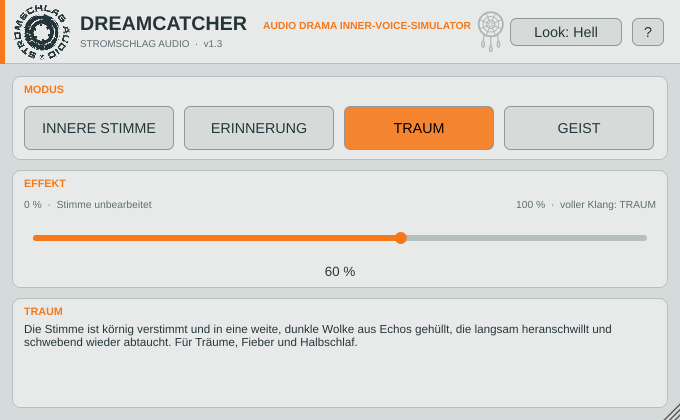
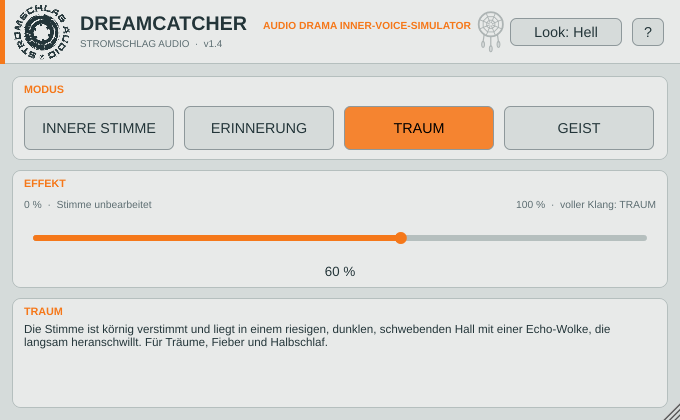
v1.4: Echter Hall in allen Modi (nach Airwindows Galactic)
- Je Modus ein eigener Raum: winzig (Innere Stimme), kleines dumpfes Zimmer (Erinnerung),
  riesige dunkle Halle (Traum, ca. 5,5 s), Nachhall hinter der Stimme (Geist)
- Beim Moduswechsel klingt der alte Raum aus, der neue blendet ein (kein Knacken)
- Pegel neu abgeglichen, Tail 6 s, Reverse-Hall rechnet halb so viel
- Beschreibungstext wird nicht mehr gestaucht; Hilfe, README, Info-Seite, Credits aktualisiert

Claude-Session: https://claude.ai/code/session_01N8U6GAcgjakis5mRQaEKjq

Changed region(s): [[0.0309, 0.7738, 0.8956, 0.8357]]

diff --git a/docs/index.html b/docs/index.html
@@ -61,14 +61,14 @@
   bis zum vollen Effekt, auch über die Zeit per Automation.</p>
 
   <a class="btn" id="dl" href="https://github.com/StromschlagProductions/Dreamcatcher-vst/releases/latest">⬇ Download (Windows, VST3)</a>
-  <div class="meta" id="ver">Aktuelle Version: <span id="vnum">1.3</span> · Installation: ZIP entpacken, den ganzen Ordner <code>Dreamcatcher.vst3</code> nach <code>C:\Program Files\Common Files\VST3</code> kopieren.</div>
+  <div class="meta" id="ver">Aktuelle Version: <span id="vnum">1.4</span> · Installation: ZIP entpacken, den ganzen Ordner <code>Dreamcatcher.vst3</code> nach <code>C:\Program Files\Common Files\VST3</code> kopieren.</div>
 
   <h2>Was es kann</h2>
   <ul>
-    <li><strong>Innere Stimme:</strong> nah, im Kopf, schmal, mit einem kurzen Hauch Echo und weicheren Höhen.</li>
-    <li><strong>Erinnerung / Rückblende:</strong> die Stimme stottert, sinkt ab und klingt dünn und dumpf; nach einem Pre-Delay schwappen Echos von links nach rechts heran und schwellen an (wop, wop).</li>
-    <li><strong>Traum:</strong> körnig verstimmt, in einer weiten, dunklen Echo-Wolke, die langsam anschwillt und schwebend abtaucht.</li>
-    <li><strong>Geist:</strong> echter Reverse-Hall: Vor jedem Wort schwillt ein Geisterhall an, dann kommt die Stimme. Dafür meldet das Plugin in diesem Modus rund 0,6 s Latenz an die DAW, die sie ausgleicht. Am besten auf einer eigenen Spur oder Instanz.</li>
+    <li><strong>Innere Stimme:</strong> nah, im Kopf, schmal, in einem winzigen, engen Raum mit einem Hauch Echo und weicheren Höhen.</li>
+    <li><strong>Erinnerung / Rückblende:</strong> die Stimme stottert, sinkt ab und klingt dünn und dumpf in einem kleinen, alten Zimmer; nach einem Pre-Delay schwappen Echos von links nach rechts heran und schwellen an (wop, wop).</li>
+    <li><strong>Traum:</strong> körnig verstimmt, in einem riesigen, dunklen, schwebenden Hall mit einer Echo-Wolke, die langsam anschwillt.</li>
+    <li><strong>Geist:</strong> echter Reverse-Hall: Vor jedem Wort schwillt ein Geisterhall an, dann kommt die Stimme und hallt nach. Dafür meldet das Plugin in diesem Modus rund 0,6 s Latenz an die DAW, die sie ausgleicht. Am besten auf einer eigenen Spur oder Instanz.</li>
     <li><strong>Ein Fader von 0 bis 100 %:</strong> 0 % ist die Stimme unbearbeitet, 100 % der volle Klang des Modus. Per Automation lässt sich der Effekt einblenden oder zurückholen, etwa wenn eine alte Stimme aus einer Überblendung kommt.</li>
     <li><strong>Auch auf einem Bus:</strong> Stimme und Geräusche einer Traum- oder Erinnerungsszene bekommen gemeinsam dieselbe Behandlung und klingen wie aus einer Welt.</li>
     <li><strong>Fest abgestimmt:</strong> kein Ausgangsregler, keine eigenen Geräusche. Das Plugin verändert nur den Klang der Stimme; Latenz gibt es nur im Modus Geist.</li>
@@ -87,7 +87,7 @@
 
   <footer>
     DREAMCATCHER · Stromschlag Audio · Lars Eickstädt<br>
-    Gebaut mit <a href="https://juce.com">JUCE</a>. Klangbausteine nach Airwindows SweetWide, StereoEnsemble, GlitchShifter und PitchNasty (Chris Johnson, MIT-Lizenz).
+    Gebaut mit <a href="https://juce.com">JUCE</a>. Klangbausteine nach Airwindows SweetWide, StereoEnsemble, GlitchShifter, PitchNasty und Galactic (Chris Johnson, MIT-Lizenz).
   </footer>
 
 </main>

diff --git a/Source/DreamcatcherDSP.h b/Source/DreamcatcherDSP.h
@@ -52,13 +52,13 @@ struct Voicing
 // Reihenfolge wie enum Mode
 static const Voicing kVoicing[kNumModes] = {
     // innere Stimme: nah, im Kopf, leicht verbreitert, nur ein kurzes leises Echo dahinter, wenig dunkler
-    { 0.00, 0.00, 0.12, 0.25, 0.35, 0.22, 140.0, 7500.0, 1.25,   0.18,  18.0,  90.0, 0.0, 0.3, 3500.0,   0.00, 0.00 },
+    { 0.00, 0.00, 0.12, 0.25, 0.35, 0.22, 140.0, 7500.0, 1.40,   0.18,  18.0,  90.0, 0.0, 0.3, 3500.0,   0.00, 0.00 },
     // Erinnerung: stark zerfallende, dumpfe Stimme, dazu Pre-Delay und Echos, die schwappend zwischen links und rechts anschwellen
-    { 0.85, 0.00, 0.20, 0.20, 0.55, 0.30, 260.0, 3800.0, 2.00,   0.55, 120.0, 240.0, 0.7, 1.0, 2600.0,   0.00, 0.00 },
+    { 0.85, 0.00, 0.20, 0.20, 0.55, 0.30, 260.0, 3800.0, 1.95,   0.55, 120.0, 240.0, 0.7, 1.0, 2600.0,   0.00, 0.00 },
     // Traum: koernig verstimmt, weite Wolke, dazu langsam anschwellende Echos
-    { 0.00, 0.75, 0.20, 0.30, 0.90, 0.60, 160.0, 4200.0, 1.80,   0.40,  60.0, 330.0, 1.0, 0.8, 3000.0,   0.00, 0.00 },
+    { 0.00, 0.75, 0.20, 0.30, 0.90, 0.60, 160.0, 4200.0, 1.50,   0.40,  60.0, 330.0, 1.0, 0.8, 3000.0,   0.00, 0.00 },
     // Geist: der Hall laeuft rueckwaerts und schwillt vor der Stimme an (Latenz, siehe kGhostSeconds)
-    { 0.00, 0.00, 0.10, 0.20, 0.25, 0.15, 150.0, 6000.0, 1.00,   0.00,   0.0,   0.0, 0.0, 0.0, 3000.0,   0.85, 0.95 },
+    { 0.00, 0.00, 0.10, 0.20, 0.25, 0.15, 150.0, 6000.0, 0.82,   0.00,   0.0,   0.0, 0.0, 0.0, 3000.0,   0.85, 0.95 },
 };
 
 // Tap-Verlauf der Schwapp-Echos (8 Echos): abfallend bzw. anschwellend, Mischung ueber echoSwell
@@ -77,6 +77,13 @@ constexpr double kGlitchFeedback = 0.10;    // Rueckkopplung 0..0.67
 constexpr double kNastyBendSemis = -0.45;   // Verstimmung in Halbtoenen
 constexpr double kNastyGrindSemis = -20.0;  // Koernung: Halbtoene unter dem mittleren C (tiefer = groeber)
 constexpr double kNastyFeedback = 0.25;     // Rueckkopplung 0..1
+// Hall je Modus (Airwindows Galactic): Pegel, Ausklang (Replace: hoch = kurz), Helligkeit, Schwebung, Raumgroesse
+struct Room { double level, replace, bright, detune, size; };
+static const Room kRoom[kNumModes] = {
+    { 0.35, 0.88, 0.55, 0.00, 0.06 },   // Innere Stimme: winzig, eng, nur ein Hauch Raum im Kopf
+    { 1.45, 0.62, 0.28, 0.15, 0.30 },   // Erinnerung: kleines, dumpfes, altes Zimmer
+    { 1.57, 0.72, 0.32, 0.70, 1.00 },   // Traum: riesig, dunkel, schwebend
+    { 0.96, 0.65, 0.40, 0.35, 0.55 } }; // Geist: Nachhall hinter der Stimme
 constexpr double kSmoothSeconds = 0.060;    // Zeit, in der Moduswechsel ueberblendet werden
 
 // ======================================================================================================
@@ -383,6 +390,122 @@ struct Biquad
 };
 
 // ======================================================================================================
+//  Galactic (Airwindows, Chris Johnson, MIT): Hall aus drei 4x4-Rueckkopplungsnetzen mit schwebendem Vorlauf
+//  Portiert ohne Dither. Die Raumgroesse wird beim prepare() fest eingestellt (jeder Modus hat sein eigenes Exemplar).
+// ======================================================================================================
+class Galactic
+{
+public:
+    void prepare (double sampleRate, const Room& room)
+    {
+        const double overall = sampleRate / 44100.0;
+        cycleEnd = std::max (1, std::min (4, (int) std::floor (overall)));
+        regen = 0.0625 + (1.0 - room.replace) * 0.0625;
+        attenuate = (1.0 - regen / 0.125) * 1.333;
+        lowpass = std::pow (1.00001 - (1.0 - room.bright), 2.0) / std::sqrt (overall);
+        drift = std::pow (room.detune, 3.0) * 0.001;
+        const double size = room.size * 1.77 + 0.1;
+        static const double base[12] = { 3407, 1823, 859, 331, 4801, 2909, 1153, 461, 7607, 4217, 2269, 1597 };
+        for (int k = 0; k < 12; ++k)
+        {
+            d[k] = std::max (1, (int) (base[k] * size));
+            for (int c = 0; c < 2; ++c) buf[c][k].assign ((size_t) d[k] + 2, 0.0);
+        }
+        for (int c = 0; c < 2; ++c) bufM[c].assign ((size_t) kDelayM + 2, 0.0);
+        reset();
+    }
+    void reset()
+    {
+        for (int c = 0; c < 2; ++c)
+        {
+            for (auto& b : buf[c]) std::fill (b.begin(), b.end(), 0.0);
+            std::fill (bufM[c].begin(), bufM[c].end(), 0.0);
+            for (auto& f : fb[c]) f = 0.0;
+            for (auto& r : lastRef[c]) r = 0.0;
+            iirA[c] = iirB[c] = 0.0;
+        }
+        for (auto& n : count) n = 1;
+        countM = 1; cycle = 0; vibM = 3.0; oldfpd = 0.5;
+    }
+    // Eingang l/r, Rueckgabe: nur der Hall (wet)
+    void process (double inL, double inR, double& outL, double& outR)
+    {
+        vibM += oldfpd * drift;
+        if (vibM > 6.283185307179586) { vibM = 0.0; rng ^= rng << 13; rng ^= rng >> 17; rng ^= rng << 5; oldfpd = 0.4294967295 + rng * 0.0000000000618; }
+
+        bufM[0][(size_t) countM] = inL * attenuate;
+        bufM[1][(size_t) countM] = inR * attenuate;
+        if (++countM > kDelayM) countM = 0;
+        double x[2];
+        for (int c = 0; c < 2; ++c)
+        {
+            const double off = (std::sin (vibM + (c ? 1.5707963267948966 : 0.0)) + 1.0) * 127.0;
+            const int w = countM + (int) off;
+            const double frac = off - std::floor (off);
+            const int i0 = w > kDelayM ? w - (kDelayM + 1) : w;
+            const int i1 = (w + 1) > kDelayM ? w + 1 - (kDelayM + 1) : w + 1;
+            x[c] = bufM[c][(size_t) i0] * (1.0 - frac) + bufM[c][(size_t) i1] * frac;
+            iirA[c] = iirA[c] * (1.0 - lowpass) + x[c] * lowpass;
+            x[c] = iirA[c];
+        }
+
+        if (++cycle == cycleEnd)
+        {
+            double o[2][4];
+            // erster Block: Eingang + ueberkreuzte Rueckkopplung
+            for (int c = 0; c < 2; ++c)
+                for (int k = 0; k < 4; ++k)
+                    buf[c][k][(size_t) count[k]] = x[c] + fb[1 - c][k] * regen;
+            for (int k = 0; k < 4; ++k) advance (k);
+            for (int c = 0; c < 2; ++c) for (int k = 0; k < 4; ++k) o[c][k] = tap (c, k);
+            // zweiter und dritter Block
+            for (int stage = 1; stage <= 2; ++stage)
+            {
+                const int b0 = stage * 4;
+                for (int c = 0; c < 2; ++c)
+                    for (int k = 0; k < 4; ++k)
+                        buf[c][b0 + k][(size_t) count[b0 + k]] = householder (o[c], k);
+                for (int k = 0; k < 4; ++k) advance (b0 + k);
+                for (int c = 0; c < 2; ++c) for (int k = 0; k < 4; ++k) o[c][k] = tap (c, b0 + k);
+            }
+            for (int c = 0; c < 2; ++c)
+            {
+                for (int k = 0; k < 4; ++k) fb[c][k] = householder (o[c], k);
+                const double y = (o[c][0] + o[c][1] + o[c][2] + o[c][3]) / 8.0;
+                double* r = lastRef[c];
+                if (cycleEnd == 4) { r[0] = r[4]; r[2] = (r[0] + y) / 2; r[1] = (r[0] + r[2]) / 2; r[3] = (r[2] + y) / 2; r[4] = y; }
+                else if (cycleEnd == 3) { r[0] = r[3]; r[2] = (r[0] + r[0] + y) / 3; r[1] = (r[0] + y + y) / 3; r[3] = y; }
+                else if (cycleEnd == 2) { r[0] = r[2]; r[1] = (r[0] + y) / 2; r[2] = y; }
+                else r[0] = y;
+            }
+            cycle = 0;
+        }
+        for (int c = 0; c < 2; ++c)
+        {
+            iirB[c] = iirB[c] * (1.0 - lowpass) + lastRef[c][cycle] * lowpass;
+            x[c] = iirB[c];
+        }
+        outL = x[0]; outR = x[1];
+    }
+
+private:
+    static constexpr int kDelayM = 256;
+    static double householder (const double* o, int k) { return o[k] - (o[0] + o[1] + o[2] + o[3] - o[k]); }
+    void advance (int k) { if (++count[k] > d[k]) count[k] = 0; }
+    double tap (int c, int k) const
+    {
+        const int n = count[k];
+        return buf[c][k][(size_t) (n > d[k] ? n - d[k] - 1 : n)];
+    }
+
+    std::vector<double> buf[2][12], bufM[2];
+    int d[12] {}, count[12] {}, countM = 1, cycle = 0, cycleEnd = 1;
+    double fb[2][4] {}, lastRef[2][7] {}, iirA[2] {}, iirB[2] {};
+    double regen = 0.09, attenuate = 0.5, lowpass = 0.5, drift = 0.0, vibM = 3.0, oldfpd = 0.5;
+    uint32_t rng = 0x2545F491u;
+};
+
+// ======================================================================================================
 //  Verzoegerungsring (feste Laenge, Rueckgabe = Wert von vor genau n Samples)
 // ======================================================================================================
 struct Ring
@@ -529,12 +652,13 @@ private:
             {
                 const Cx* x = &X[(size_t) ((head - p + parts) % parts) * F];
                 const Cx* h = &H[c][(size_t) p * F];
-                for (int k = 0; k < F; ++k)
+                for (int k = 0; k <= F / 2; ++k)   // reelle Signale: obere Haelfte ist gespiegelt
                 {
                     acc[k].r += x[k].r * h[k].r - x[k].i * h[k].i;
                     acc[k].i += x[k].r * h[k].i + x[k].i * h[k].r;
                 }
             }
+            for (int k = 1; k < F / 2; ++k) acc[F - k] = { acc[k].r, -acc[k].i };
             fft (acc, true);
             for (int i = 0; i < B; ++i) out[c][i] = acc[B + i].r;
         }
@@ -563,6 +687,7 @@ public:
         int n = 1; while ((double) n < 3.4 * sr) n <<= 1;
         echoBuf.assign ((size_t) n, 0.0); echoMask = n - 1; echoPos = 0;
         swell.prepare (sr);
+        for (int m = 0; m < kNumModes; ++m) room[m].prepare (sr, kRoom[m]);
         ghostDelay = swell.latency();
         for (auto* r : { &dlL, &dlR, &dryL, &dryR }) r->init (ghostDelay);
         reset();
@@ -577,6 +702,7 @@ public:
         echoLpL = echoLpR = 0.0;
         for (auto* r : { &dlL, &dlR, &dryL, &dryR }) r->clear();
         ghostRunning = false;
+        for (int m = 0; m < kNumModes; ++m) { room[m].reset(); roomRunning[m] = false; }
     }
     void setMode (int m) { mode = std::max (0, std::min (kNumModes - 1, m)); }
     // Latenz, die dem Host gemeldet werden muss: nur im Modus Geist (Schwell liegt VOR der Stimme)
@@ -678,7 +804,27 @@ public:
                 if (ghostTarget == 0.0 && ghostAmt < 0.0005) ghostRunning = false;
             }
 
-            // 6. Fader: unbearbeitet <-> voller Effekt
+            // 6. Hall: jeder Modus hat seinen eigenen Raum; beim Wechsel klingt der alte aus, der neue blendet ein
+            {
+                double hl = 0.0, hr = 0.0;
+                for (int m = 0; m < kNumModes; ++m)
+                {
+                    const double target = m == mode ? kRoom[m].level : 0.0;
+                    roomLevel[m] += (target - roomLevel[m]) * smooth;
+                    if (! roomRunning[m])
+                    {
+                        if (target == 0.0) continue;
+                        room[m].reset(); roomRunning[m] = true;
+                    }
+                    double wl, wr;
+                    room[m].process (l, r, wl, wr);
+                    hl += wl * roomLevel[m]; hr += wr * roomLevel[m];
+                    if (target == 0.0 && roomLevel[m] < 0.0005) roomRunning[m] = false;
+                }
+                l += hl; r += hr;
+            }
+
+            // 7. Fader: unbearbeitet <-> voller Effekt
             l = safe (outDryL * (1.0 - amount) + l * amount);
             r = safe (outDryR * (1.0 - amount) + r * amount);
             left[i] = (float) l;
@@ -710,6 +856,7 @@ private:
         setEchoMode (std::max (0, std::min (kNumModes - 1, m)));
         echoLevel = kVoicing[echoMode].echoLevel;
         ghostAmt = m == kGhost ? 1.0 : 0.0;
+        for (int k = 0; k < kNumModes; ++k) roomLevel[k] = k == m ? kRoom[k].level : 0.0;
         amount = 1.0;
         started = false;
     }
@@ -729,6 +876,10 @@ private:
     double echoLevel = 0.0, echoCoef = 0.1, echoLpL = 0.0, echoLpR = 0.0;
     // Geist
     SwellConvolver swell;
+    // Hall
+    Galactic room[kNumModes];
+    double roomLevel[kNumModes] {};
+    bool roomRunning[kNumModes] {};
     Ring dlL, dlR, dryL, dryR;
     int ghostDelay = 1;
 };

diff --git a/Source/PluginEditor.cpp b/Source/PluginEditor.cpp
@@ -13,16 +13,16 @@ juce::String modeDescription (int m)
     switch (m)
     {
         case dch::kInner:
-            return u8 ("Die Stimme rückt ins Innere des Kopfes: schmal, nah, ein kurzer Hauch Echo, die Höhen etwas weicher, die Tiefen weg. "
+            return u8 ("Die Stimme rückt ins Innere des Kopfes: schmal, nah, ein winziger, enger Raum und ein Hauch Echo, die Höhen weicher, die Tiefen weg. "
                        "Für Gedanken und die Stimme im Kopf einer Figur.");
         case dch::kMemory:
-            return u8 ("Die Stimme zerfällt: Sie stottert, sinkt ab, klingt dünn und dumpf. Nach einem Pre-Delay schwappen Echos von links nach rechts "
-                       "heran und schwellen an, wop, wop. Für Rückblenden, zum Beispiel die alte Stimme, die aus einer Überblendung kommt.");
+            return u8 ("Die Stimme zerfällt: Sie stottert, sinkt ab, klingt dünn und dumpf wie in einem alten Zimmer. Nach einem Pre-Delay schwappen Echos "
+                       "von links nach rechts heran, wop, wop. Für Rückblenden, zum Beispiel die alte Stimme, die aus einer Überblendung kommt.");
         case dch::kDream:
-            return u8 ("Die Stimme ist körnig verstimmt und in eine weite, dunkle Wolke aus Echos gehüllt, die langsam heranschwillt "
-                       "und schwebend wieder abtaucht. Für Träume, Fieber und Halbschlaf.");
+            return u8 ("Die Stimme ist körnig verstimmt und liegt in einem riesigen, dunklen, schwebenden Hall mit einer Echo-Wolke, "
+                       "die langsam heranschwillt. Für Träume, Fieber und Halbschlaf.");
         default:
-            return u8 ("Reverse-Hall: Vor jedem Wort schwillt ein Geisterhall an, dann kommt die Stimme. Das Plugin meldet dafür rund 0,6 s Latenz, die "
+            return u8 ("Reverse-Hall: Vor jedem Wort schwillt ein Geisterhall an, dann kommt die Stimme und hallt nach. Das Plugin meldet dafür rund 0,6 s Latenz, die "
                        "die DAW ausgleicht. Für Geister und Erscheinungen. Am besten auf einer eigenen Spur oder Plugin-Instanz.");
     }
 }
@@ -60,11 +60,11 @@ static juce::AttributedString buildHelp (juce::Colour text, juce::Colour accent,
           "Der Klang jedes Modus ist fest abgestimmt, es gibt nichts zu basteln. Es gibt nur zwei Regler: den Modus und den Effekt-Fader.");
 
     head ("MODUS");
-    body ("Innere Stimme: Die Stimme rückt ins Innere des Kopfes. Schmal und nah, ein kurzer Hauch Echo, Höhen weicher, Tiefen weg.");
-    body ("Erinnerung: Die Stimme stottert, sinkt ab, klingt dünn und dumpf. Nach einem Pre-Delay schwappen Ping-Pong-Echos von links nach rechts "
+    body ("Innere Stimme: Die Stimme rückt ins Innere des Kopfes. Schmal und nah, ein winziger, enger Raum, ein Hauch Echo, Höhen weicher, Tiefen weg.");
+    body ("Erinnerung: Die Stimme stottert, sinkt ab, klingt dünn und dumpf in einem kleinen, alten Zimmer. Nach einem Pre-Delay schwappen Ping-Pong-Echos von links nach rechts "
           "heran und schwellen an (wop, wop). Gedacht für Rückblenden.");
-    body ("Traum: Körnig verstimmt, in einer weiten, dunklen Wolke aus Echos, die langsam anschwillt und schwebend abtaucht.");
-    body ("Geist: Echter Reverse-Hall. Vor jedem Wort schwillt ein Geisterhall an, dann erst kommt die Stimme. Dafür muss das Plugin die Stimme "
+    body ("Traum: Körnig verstimmt, in einem riesigen, dunklen, leicht schwebenden Hall und einer Echo-Wolke, die langsam anschwillt.");
+    body ("Geist: Echter Reverse-Hall. Vor jedem Wort schwillt ein Geisterhall an, dann erst kommt die Stimme, danach hallt sie normal nach. Dafür muss das Plugin die Stimme "
           "um rund 0,6 Sekunden verzögern und meldet diese Latenz dem Host; die DAW gleicht sie aus, sodass der Schwell hörbar VOR der Stimme liegt.");
     body ("Der Modus lässt sich automatisieren. Beim Wechsel blendet das Plugin in etwa einer zehntel Sekunde über, es knackt nicht.");
 
@@ -77,7 +77,7 @@ static juce::AttributedString buildHelp (juce::Colour text, juce::Colour accent,
     head ("Allgemein");
     body ("Latenz: Nur im Modus Geist meldet das Plugin rund 0,6 s Latenz an den Host, in den anderen drei Modi ist es latenzfrei. Weil sich die gemeldete "
           "Latenz beim Moduswechsel ändert, nimm Geist am besten auf einer eigenen Spur oder Plugin-Instanz und automatisiere den Modus nicht quer durch die Szene. "
-          "Nach dem Ende der Stimme klingen die Echos bis zu etwa drei Sekunden nach.");
+          "Nach dem Ende der Stimme klingen Hall und Echos nach, im Modus Traum bis zu etwa sechs Sekunden.");
     body ("Doppelklick auf den Fader setzt ihn auf 100 % zurück. Look: Dunkel / Hell, das Fenster ist am rechten unteren Rand skalierbar (50–300 %), "
           "beides wird mit dem Projekt gespeichert.");
     body ("Auch auf einem Bus: Du kannst Dreamcatcher auf einen Gruppenkanal legen, damit die Stimme und die Geräusche einer Traum- oder "
@@ -87,7 +87,7 @@ static juce::AttributedString buildHelp (juce::Colour text, juce::Colour accent,
 
     head ("Idee und Konzept");
     body ("Lars Eickstädt, Stromschlag Audio");
-    note ("Gebaut mit JUCE. Die Klangbausteine SweetWide, StereoEnsemble, GlitchShifter und PitchNasty sind Portierungen von Airwindows-Code "
+    note ("Gebaut mit JUCE. Die Klangbausteine SweetWide, StereoEnsemble, GlitchShifter, PitchNasty und der Hall Galactic sind Portierungen von Airwindows-Code "
           "(Chris Johnson, MIT-Lizenz).");
     return s;
 }
@@ -322,7 +322,7 @@ void DreamcatcherEditor::paint (juce::Graphics& g)
     card (12.0f, 298.0f, (float) W - 24.0f, 110.0f, modeShort (m));
     g.setColour (theme.text);
     g.setFont (juce::FontOptions (13.0f));
-    g.drawFittedText (modeDescription (m), 24, 322, W - 48, 78, juce::Justification::topLeft, 4);
+    g.drawFittedText (modeDescription (m), 24, 322, W - 48, 78, juce::Justification::topLeft, 4, 1.0f);
 }
 
 void DreamcatcherEditor::resized()

diff --git a/Source/PluginProcessor.h b/Source/PluginProcessor.h
@@ -21,7 +21,7 @@ public:
     bool acceptsMidi() const override { return false; }
     bool producesMidi() const override { return false; }
     bool isMidiEffect() const override { return false; }
-    double getTailLengthSeconds() const override { return 3.0; }   // Schwapp-Echos klingen bis zu ca. 3 s nach
+    double getTailLengthSeconds() const override { return 6.0; }   // Traum-Hall und Echos klingen bis zu ca. 6 s nach
 
     int getNumPrograms() override { return 1; }
     int getCurrentProgram() override { return 0; }

diff --git a/README.md b/README.md
@@ -42,7 +42,7 @@ die Fenstergröße (50–300 %) werden mit dem Projekt gespeichert. Zu jedem Reg
 
 | Regler | Wirkung |
 |---|---|
-| **Modus** | **Innere Stimme:** Die Stimme rückt ins Innere des Kopfes: schmal, nah, ein kurzer Hauch Echo, Höhen weicher, Tiefen weg. **Erinnerung:** Die Stimme stottert, sinkt ab, klingt dünn und dumpf; nach einem Pre-Delay schwappen Ping-Pong-Echos von links nach rechts heran und schwellen an (wop, wop), für Rückblenden. **Traum:** körnig verstimmt, in einer weiten, dunklen Echo-Wolke, die langsam anschwillt und schwebend abtaucht. **Geist:** echter Reverse-Hall, vor jedem Wort schwillt ein Geisterhall an, dann kommt die Stimme (meldet rund 0,6 s Latenz). Beim Wechsel blendet das Plugin in etwa einer zehntel Sekunde über. |
+| **Modus** | **Innere Stimme:** Die Stimme rückt ins Innere des Kopfes: schmal, nah, ein winziger, enger Raum und ein Hauch Echo, Höhen weicher, Tiefen weg. **Erinnerung:** Die Stimme stottert, sinkt ab, klingt dünn und dumpf in einem kleinen, alten Zimmer; nach einem Pre-Delay schwappen Ping-Pong-Echos von links nach rechts heran und schwellen an (wop, wop), für Rückblenden. **Traum:** körnig verstimmt, in einem riesigen, dunklen, schwebenden Hall mit einer Echo-Wolke, die langsam anschwillt. **Geist:** echter Reverse-Hall, vor jedem Wort schwillt ein Geisterhall an, dann kommt die Stimme und hallt nach (meldet rund 0,6 s Latenz). Beim Wechsel blendet das Plugin in etwa einer zehntel Sekunde über. |
 | **Effekt** | 0 % = die Stimme unbearbeitet, 100 % = der volle Klang des Modus, dazwischen fließend (Standard: 100 %). Doppelklick setzt auf 100 % zurück. |
 
 Das ist wie bei LOCATIONS: Ein Fader bewegt die Stimme zwischen zwei Zuständen. Hier sind es die normal klingende
@@ -65,7 +65,7 @@ Stimme und der Traum. Einen extra Ein-/Ausschalter gibt es nicht, 0 % ist aus.
 - **Latenz:** Nur im Modus **Geist** meldet das Plugin rund 0,6 s Latenz an den Host, damit der Reverse-Hall vor der Stimme
   liegen kann; die DAW gleicht das aus. Die anderen drei Modi sind latenzfrei. Weil sich die gemeldete Latenz beim
   Moduswechsel ändert, verwendest du Geist am besten auf einer eigenen Spur oder Plugin-Instanz und automatisierst den Modus
-  nicht quer durch die Szene. Die Echos klingen nach dem Ende der Stimme bis zu etwa drei Sekunden nach.
+  nicht quer durch die Szene. Hall und Echos klingen nach dem Ende der Stimme nach, im Modus Traum bis zu etwa sechs Sekunden.
   Zwischen 0 und 100 % mischen sich bearbeitete und unbearbeitete Stimme, dabei können leichte Kammfilter-Färbungen entstehen.
 - Der Eingang wird als Stereo verarbeitet; eine Mono-Spur bekommt durch die Echo-Bausteine Stereobreite.
 - Der Pegel ist fest ausgeglichen: bei 100 % ist die Stimme etwa so laut wie bei 0 % (gemessen mit einem
@@ -83,6 +83,7 @@ Stimme und der Traum. Einen extra Ein-/Ausschalter gibt es nicht, 0 % ist aus.
 Die Versionsnummer steht in der Datei `VERSION`, im Plugin-Kopf und im Namen der Release. Sie wird bei jeder
 Änderung hochgezählt.
 
+- **1.4** – Echter Hall in allen Modi (nach Airwindows Galactic), je Modus ein eigener Raum: winzig (Innere Stimme), kleines dumpfes Zimmer (Erinnerung), riesige dunkle Halle (Traum), Nachhall hinter der Stimme (Geist). Pegel neu abgeglichen.
 - **1.3** – Modi deutlich stärker unterschieden; neues Schwapp-Echo mit Pre-Delay (Ping-Pong, abfallend oder anschwellend) in Erinnerung und Traum; vierter Modus Geist mit echtem Reverse-Hall (Latenz nur in diesem Modus).
 - **1.2** – Hinweis zur Nutzung auf einem Bus in README und Plugin-Hilfe ergänzt.
 - **1.1** – README um den Absatz „Gestalten nicht ersetzen“ ergänzt.
@@ -98,7 +99,7 @@ Die Versionsnummer steht in der Datei `VERSION`, im Plugin-Kopf und im Namen der
 
 ## Danke
 
-Gebaut mit [JUCE](https://juce.com) 8. Die Klangbausteine **SweetWide**, **StereoEnsemble**, **GlitchShifter** und
-**PitchNasty** sind Portierungen von Airwindows-Code von Chris Johnson
+Gebaut mit [JUCE](https://juce.com) 8. Die Klangbausteine **SweetWide**, **StereoEnsemble**, **GlitchShifter**,
+**PitchNasty** und der Hall **Galactic** sind Portierungen von Airwindows-Code von Chris Johnson
 ([github.com/airwindows](https://github.com/airwindows/airwindows), MIT-Lizenz). Angepasst wurden nur die Struktur
 (freie Abtastrate) und die Dither-Stufe, die weggelassen ist; die Algorithmen selbst sind übernommen.
